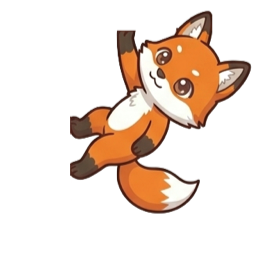
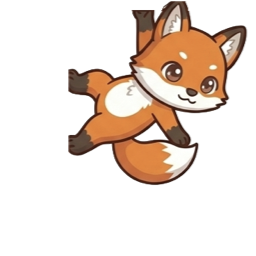
Add files via upload
更新图片

Changed region(s): [[0.25, 0.0, 1.0, 0.8438]]

diff --git a/conf.py b/conf.py
@@ -17,7 +17,7 @@ WALL_OFFSET = 48  # 角色挂在墙上减去的宽度
 SPEED_WALK = 2  # 正常溜达的水平速度
 SPEED_RUN = 3  # 发现目标时的赶路速度
 SPEED_CLIMB = 2  # 爬墙的垂直速度
-SPEED_CEILING = 8  # 天花板倒立漫步的速度
+SPEED_CEILING = 2  # 天花板倒立漫步的速度
 SPEED_JUMP_X = 8  # 决定跳得有多远
 SPEED_JUMP_Y = 16  # 决定跳得有多高
 SPEED_HUNT_X = 4        # 捕猎扑击的水平前冲力 (比跳墙小一半，显得短促有力)
@@ -67,7 +67,14 @@ STATES = {
     'CEILING_EXIT':     {'frames': ['ceiling_exit.png'], 'speed': 10, 'loop': False, 'duration': (0.5, 0.5)}, # 下墙拐弯中间态
     'CEILING_WALK':     {'frames': ['ceiling_walk_01.png', 'ceiling_walk_02.png'], 'speed': 5, 'loop': True,
                          'duration': (2.0, 6.0)},
-    'CEILING_IDLE':     {'anim_pools': [['ceiling_idle.png'], ['ceiling_swing_01.png', 'ceiling_swing_02.png']],
+    'CEILING_IDLE':     {'anim_pools': [['ceiling_idle_01.png'], ['ceiling_idle_02.png'],
+                                        ['ceiling_swing_01.png', 'ceiling_swing_02.png', 'ceiling_swing_03.png',
+                                         'ceiling_swing_04.png', 'ceiling_swing_03.png', 'ceiling_swing_02.png',
+                                         'ceiling_swing_05.png', 'ceiling_swing_06.png', 'ceiling_swing_05.png',
+                                         'ceiling_swing_02.png', 'ceiling_swing_01.png'],
+                                        ['ceiling_swing_11.png', 'ceiling_swing_12.png', 'ceiling_swing_13.png',
+                                         'ceiling_swing_14.png', 'ceiling_swing_15.png']
+                                        ],
                          'speed': 10, 'loop': True, 'duration': (3.0, 8.0)},
 
     # 鼠标事件 (因为主要靠物理打断，所以保留无限长的 99)

diff --git a/pet_entity.py b/pet_entity.py
@@ -235,7 +235,7 @@ class FoxPet(QMainWindow):
     def change_state(self, new_state):
         if self.current_state == new_state: return
 
-        print(f"【状态切换】{self.current_state} -> {new_state}")
+        # print(f"【状态切换】{self.current_state} -> {new_state}")
         self.current_state = new_state
         self.state_timer = self.frame_index = self.tick_count = 0
 
